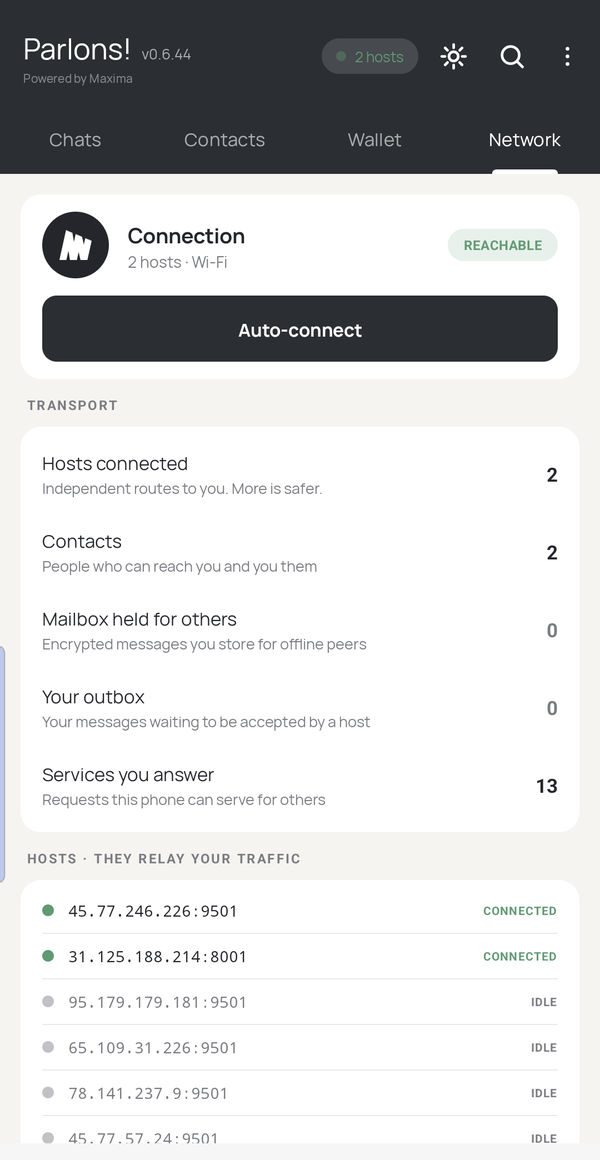
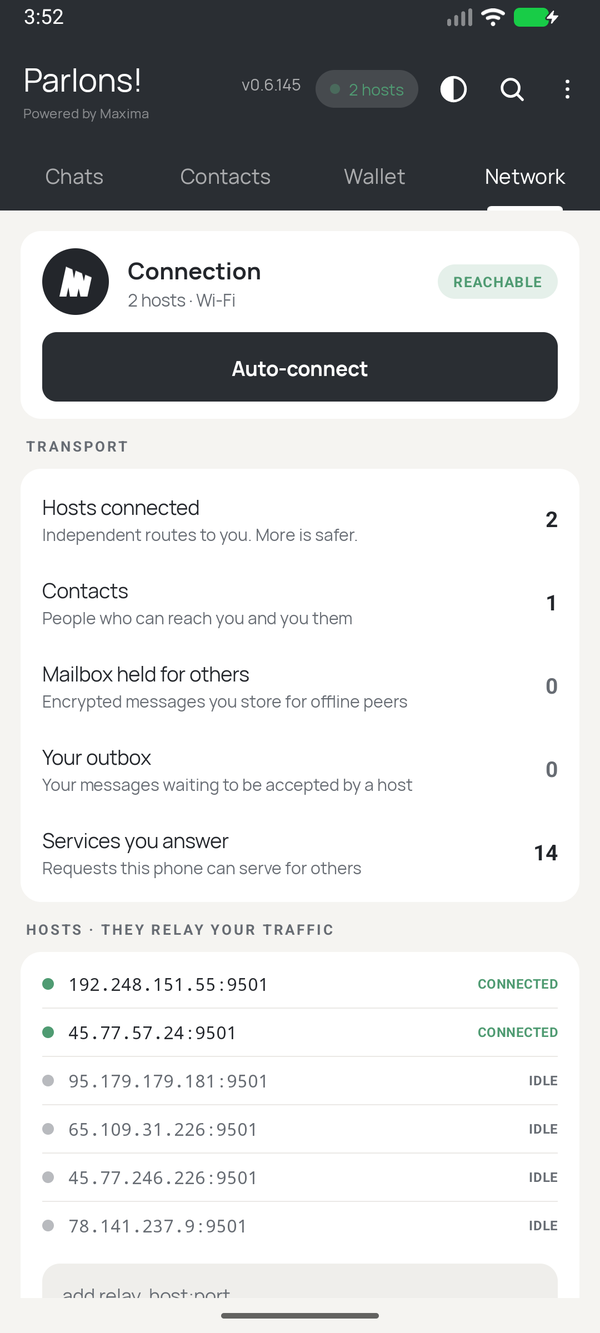
docs: website screenshots retaken from Parlons! 0.6.145 and Parlons Cloud 0.2.90 with demo identities
Replaces the September captures (0.6.44, old Scan account QR label, real contacts). Two demo
identities on emulators, talking over the live relays. Landing copy: devices join by approval,
not 'parlons newcode' (owner invites need the admin password on a fresh host).

diff --git a/docs/guide/site/landing.html b/docs/guide/site/landing.html
@@ -162,23 +162,24 @@
   <span class="d">the QR code is drawn here, with the full invite under it</span>
 
   <span class="w">BACK UP YOUR SEED NOW:  ~/.parlons/seed.txt  -  it is your identity AND a wallet.</span></pre></div>
-    <div class="phone"><img src="assets/img/iphone-pair.png" alt="Parlons Cloud on an iPhone: the account address and the one-time pairing code, filled in by scanning the invite" width="414" height="900" loading="lazy"></div>
+    <div class="phone"><img src="assets/img/cloud-pair.png" alt="Parlons Cloud for Android, ready to pair: the account address, Scan pairing QR, the pairing code and Connect &amp; pair" width="600" height="1333" loading="lazy"></div>
   </div>
   <div class="steps3">
     <div><b>Anywhere that stays on</b><span>A Raspberry Pi, a Mac mini, an old laptop, a 1 GB VPS. Outbound internet only. No port forwarding, no public address.</span></div>
-    <div><b>Every device, one identity</b><span>Pair the iPhone, the Android phone and the laptop. <code>parlons newcode</code> prints the next invite. A lost phone is one revoke away.</span></div>
+    <div><b>Every device, one identity</b><span>Pair the iPhone, the Android phone and the laptop. A new device asks to join and any paired device approves it. A lost phone is one revoke away.</span></div>
     <div><b>Yours to move</b><span>An encrypted backup carries the whole account to another machine with the same address. Or let a friend host it, and leave whenever you like.</span></div>
   </div>
 </div></section>
 
 <section class="sec" id="see"><div class="wrap">
   <div class="lead"><span class="label">See it</span><h2>Real screens from the apps.</h2>
-  <p>The Android app on a phone, Parlons Cloud for iPhone paired to an account, and Parlons Cloud for Android watching an always-on account.</p></div>
+  <p>Parlons! {{ANDROID_VERSION}} and Parlons Cloud {{PORTAL_VERSION}}, captured from the release builds with two demo identities talking over the live relays.</p></div>
   <div class="gallery">
-    <figure class="shot"><div class="frame"><img src="assets/img/android-chats.png" alt="The Android app's chat list with three conversations" width="600" height="1160" loading="lazy"></div><figcaption><b>Chats</b>One-to-one and groups of up to 12, with photos, voice notes and files.</figcaption></figure>
-    <figure class="shot"><div class="frame"><img src="assets/img/iphone-chat.png" alt="A conversation in Parlons Cloud for iPhone with delivery ticks" width="414" height="900" loading="lazy"></div><figcaption><b>iPhone, paired</b>The same conversation as on your other devices, delivered by your account.</figcaption></figure>
-    <figure class="shot"><div class="frame"><img src="assets/img/android-network.png" alt="The Android app's Network tab: reachable, hosts connected, outbox and mailbox counters" width="600" height="1160" loading="lazy"></div><figcaption><b>Network</b>Which relays carry you, and what this phone carries for others.</figcaption></figure>
-    <figure class="shot"><div class="frame"><img src="assets/img/cloud-node.png" alt="Parlons Cloud for Android showing an always-on account: uptime, relays attached and the permanent address" width="600" height="1160" loading="lazy"></div><figcaption><b>Your account</b>Uptime, relays, paired devices and a new pairing code in one tap.</figcaption></figure>
+    <figure class="shot"><div class="frame"><img src="assets/img/android-chat.png" alt="A Parlons! conversation between Camille and Léo, with grey and double delivery ticks" width="600" height="1333" loading="lazy"></div><figcaption><b>A conversation</b>Sealed on the sender's phone. Two ticks come from the other person's own device.</figcaption></figure>
+    <figure class="shot"><div class="frame"><img src="assets/img/android-contacts.png" alt="The Contacts tab: your Parlons address with Share my address and Scan, and one contact online" width="600" height="1333" loading="lazy"></div><figcaption><b>Contacts</b>Your address is a QR code to share. Adding someone is a handshake.</figcaption></figure>
+    <figure class="shot"><div class="frame"><img src="assets/img/android-network.png" alt="The Network tab: reachable, hosts connected, contacts, mailbox and outbox counters, and the relay list" width="600" height="1333" loading="lazy"></div><figcaption><b>Network</b>Which relays carry you, and what this phone does for others.</figcaption></figure>
+    <figure class="shot"><div class="frame"><img src="assets/img/cloud-node.png" alt="Parlons Cloud's Node page: always on and online, uptime, three relays attached, and the permanent address" width="600" height="1333" loading="lazy"></div><figcaption><b>Your account</b>Always on, attached to several relays, with a permanent address.</figcaption></figure>
+  </div><figcaption><b>Your account</b>Uptime, relays, paired devices and a new pairing code in one tap.</figcaption></figure>
   </div>
 </div></section>
 
